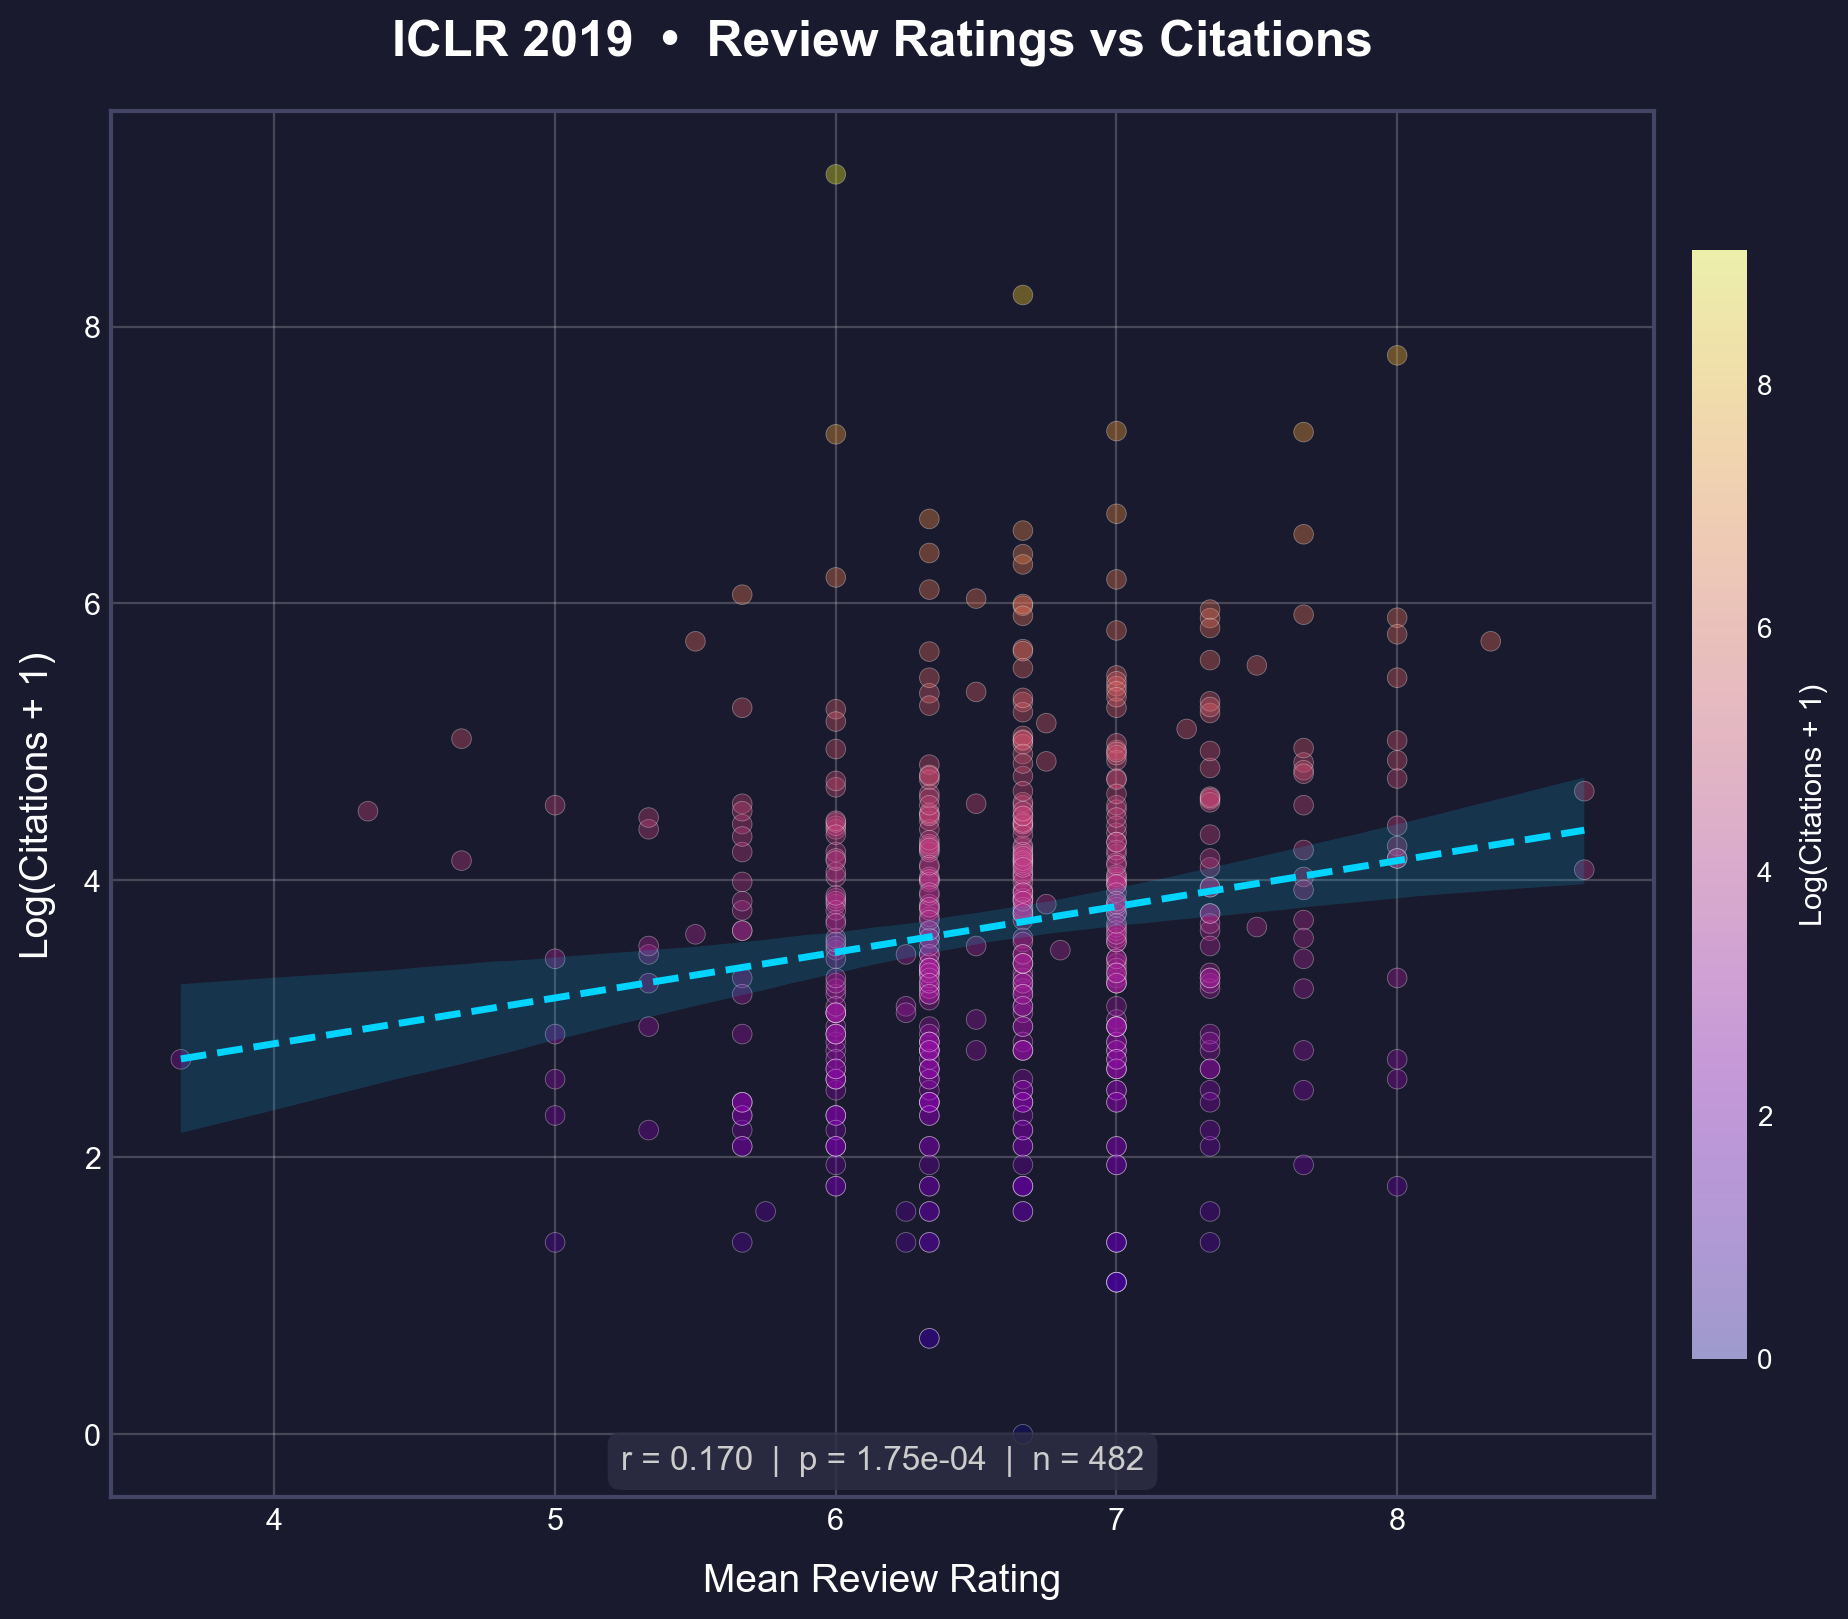
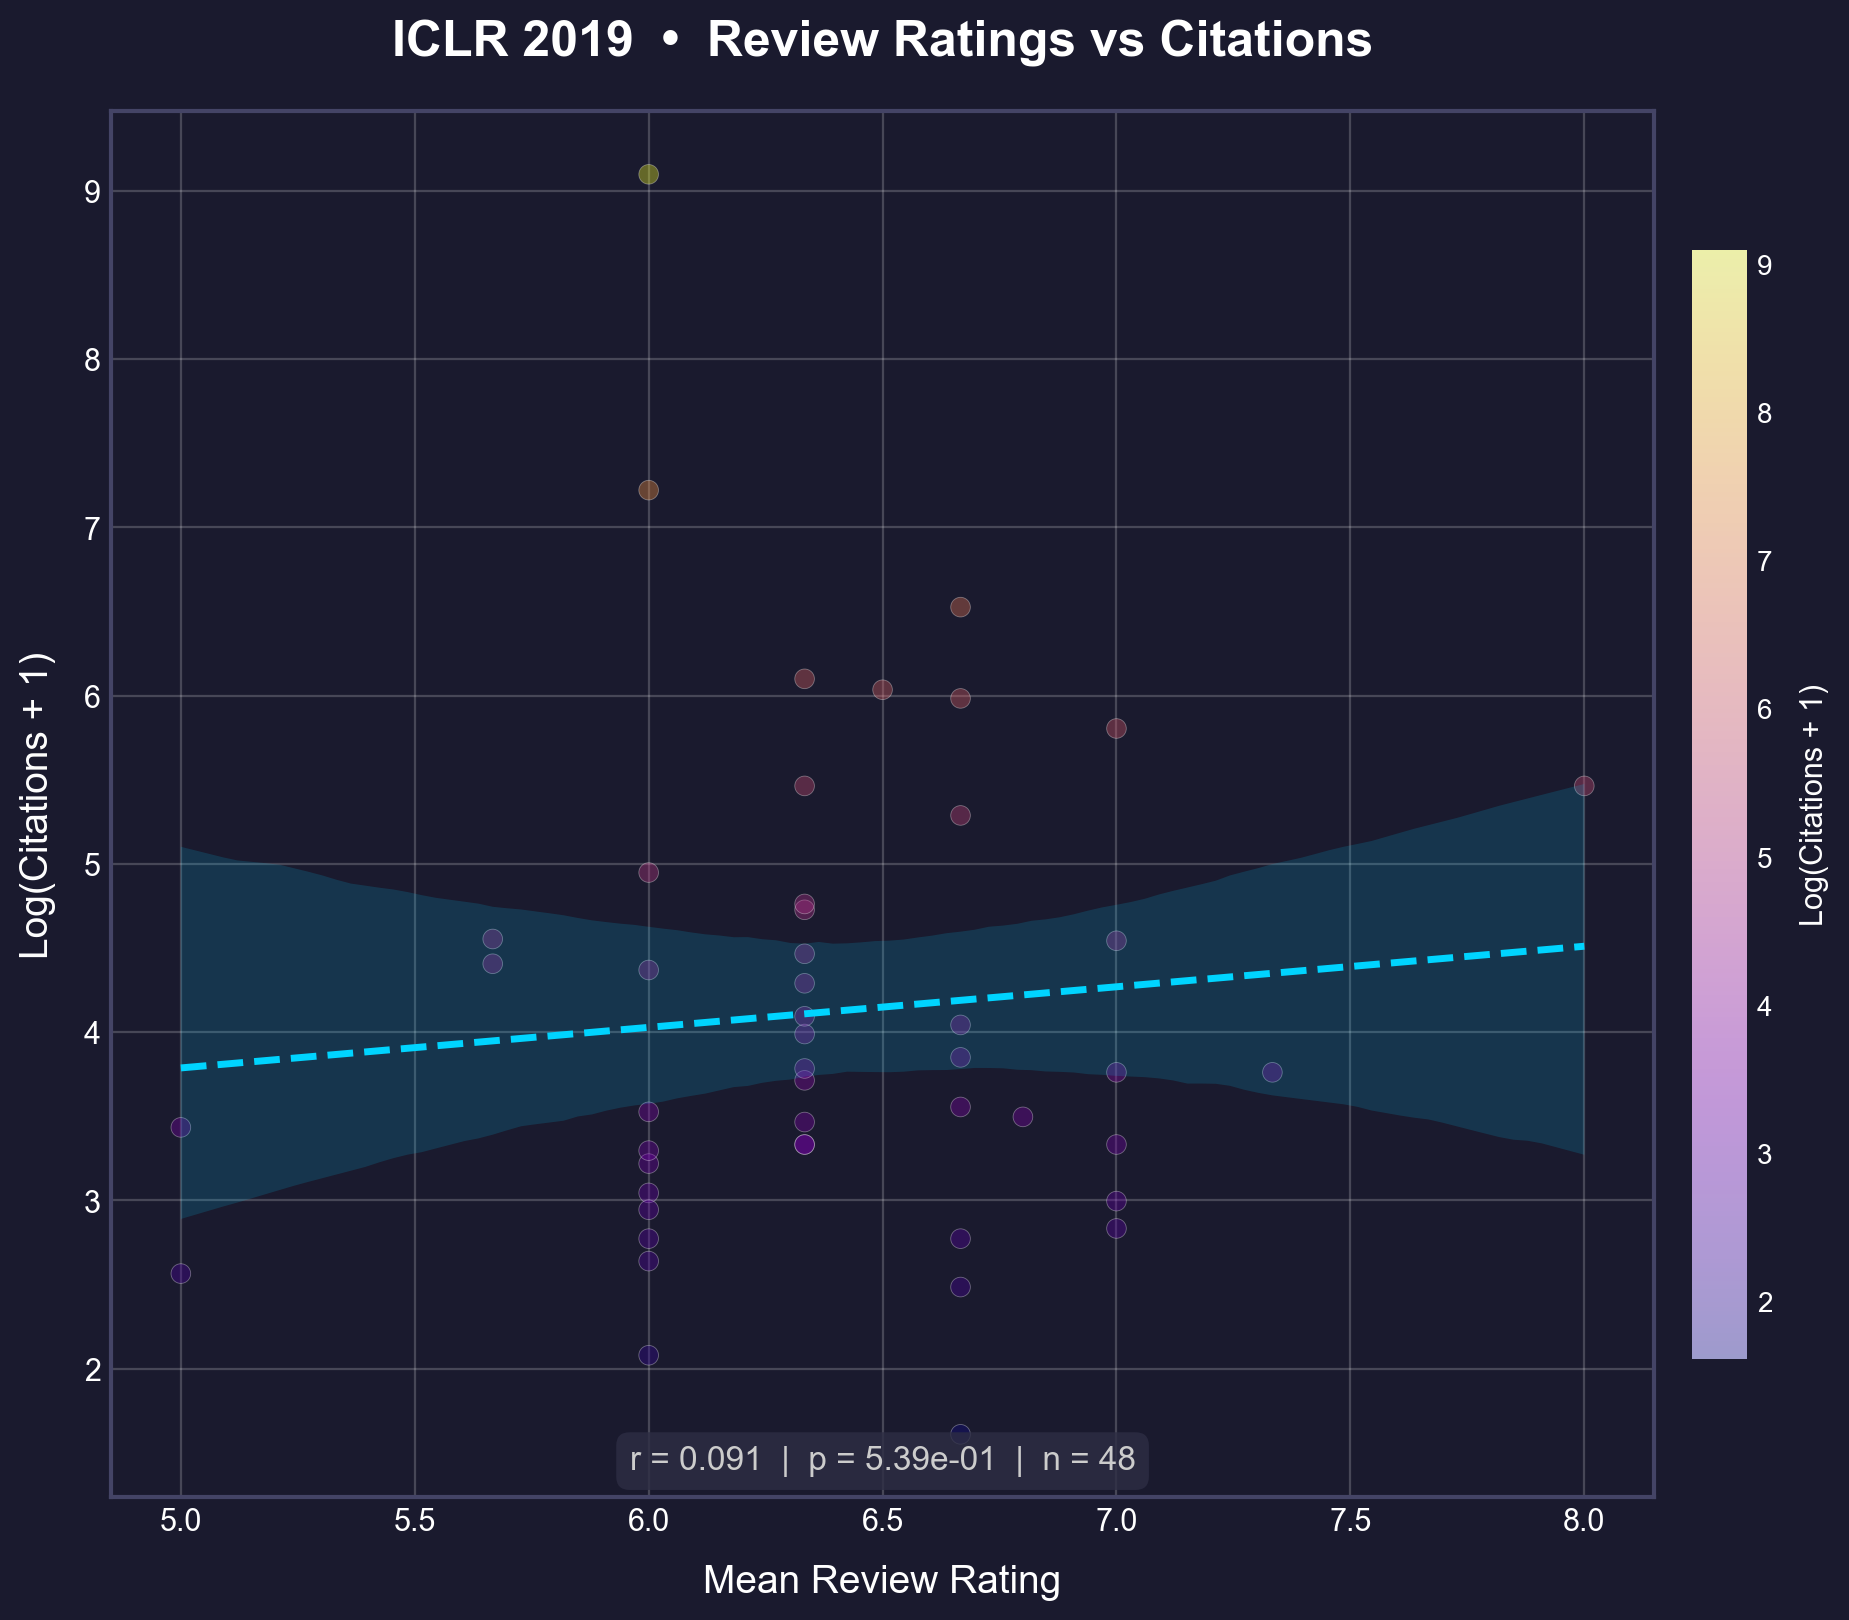
FIX: 2019 confidence score

diff --git a/Confidence_Analysis.md b/Confidence_Analysis.md
@@ -23,7 +23,7 @@ Specifically:
 | :--- | :--- | :--- | :--- | :--- |
 | **2017** | **0.153** | 0.143 | 0.067 | Experts > Generalists |
 | **2018** | **0.209** | 0.192 | 0.112 | Experts > Generalists |
-| **2019** | N/A | N/A | N/A | (Data missing) |
+| **2019** | 0.091 | -0.016 | **0.296** | **Generalists > Experts** |
 | **2020** | 0.007 | N/A | N/A | (Confidence data issue) |
 | **2021** | 0.111 | 0.067 | **0.096** | **Shift Begins** (Generalists > Experts) |
 | **2022** | 0.128 | 0.107 | **0.131** | Generalists > Experts |
